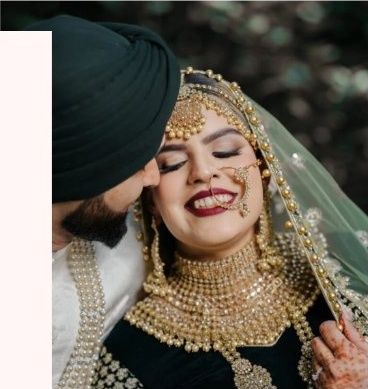
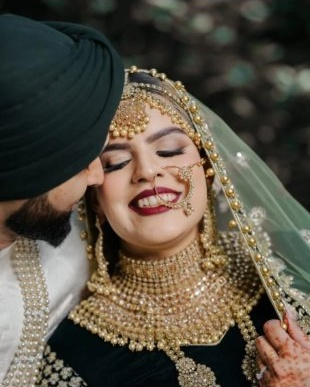
fix(showcase): pixel-perfect photo crops and mobile responsive spacing for Colour Showcase

diff --git a/client/src/components/landing/ColourShowcaseSection.jsx b/client/src/components/landing/ColourShowcaseSection.jsx
@@ -192,10 +192,10 @@ export default function ColourShowcaseSection() {
           <AnimatePresence mode="wait">
             <m.div
               key={activeItem.id}
-              initial={{ opacity: 0, x: direction * 40 }}
-              animate={{ opacity: 1, x: 0 }}
-              exit={{ opacity: 0, x: direction * -40 }}
-              transition={{ duration: 0.45, ease: [0.22, 1, 0.36, 1] }}
+              initial={{ opacity: 0, y: 16 }}
+              animate={{ opacity: 1, y: 0 }}
+              exit={{ opacity: 0, y: -16 }}
+              transition={{ duration: 0.35, ease: [0.22, 1, 0.36, 1] }}
               className="w-full"
             >
               <div
@@ -205,10 +205,10 @@ export default function ColourShowcaseSection() {
               >
                 {/* Editorial Overlapping Card */}
                 <div
-                  className={`w-full lg:w-[58%] z-20 rounded-2xl sm:rounded-3xl p-8 sm:p-12 lg:p-14 shadow-lg border border-[#F0E6DF] transition-all duration-500 text-center ${
+                  className={`w-full max-w-xl lg:max-w-none lg:w-[58%] z-20 rounded-2xl sm:rounded-3xl p-6 sm:p-10 lg:p-14 shadow-lg border border-[#F0E6DF] transition-all duration-500 text-center ${
                     activeItem.cardPosition === "left"
-                      ? "lg:-mr-16 text-center lg:text-left"
-                      : "lg:-ml-16 text-center lg:text-left"
+                      ? "lg:-mr-16 lg:text-left"
+                      : "lg:-ml-16 lg:text-left"
                   }`}
                   style={{ backgroundColor: activeItem.cardBg }}
                 >
@@ -239,18 +239,18 @@ export default function ColourShowcaseSection() {
                     <span className="text-[10px] font-semibold uppercase tracking-widest text-[#78866A] block mb-2">
                       Engineered Color Palette
                     </span>
-                    <div className="flex flex-wrap items-center justify-center lg:justify-start gap-3">
+                    <div className="flex flex-wrap items-center justify-center lg:justify-start gap-2 sm:gap-3">
                       {activeItem.palette.map((swatch) => (
                         <div
                           key={swatch.name}
-                          className="flex items-center gap-1.5 rounded-full bg-white/70 px-2.5 py-1 border border-[#263D2D]/10 shadow-2xs"
+                          className="flex items-center gap-1.5 rounded-full bg-white/75 px-3 py-1 border border-[#263D2D]/10 shadow-2xs"
                           title={`${swatch.name} (${swatch.hex})`}
                         >
                           <span
                             className="w-3.5 h-3.5 rounded-full border border-black/10 shrink-0"
                             style={{ backgroundColor: swatch.hex }}
                           />
-                          <span className="text-[11px] font-medium text-[#263D2D]/80">{swatch.name}</span>
+                          <span className="text-[11px] font-medium text-[#263D2D]/90 whitespace-nowrap">{swatch.name}</span>
                         </div>
                       ))}
                     </div>
